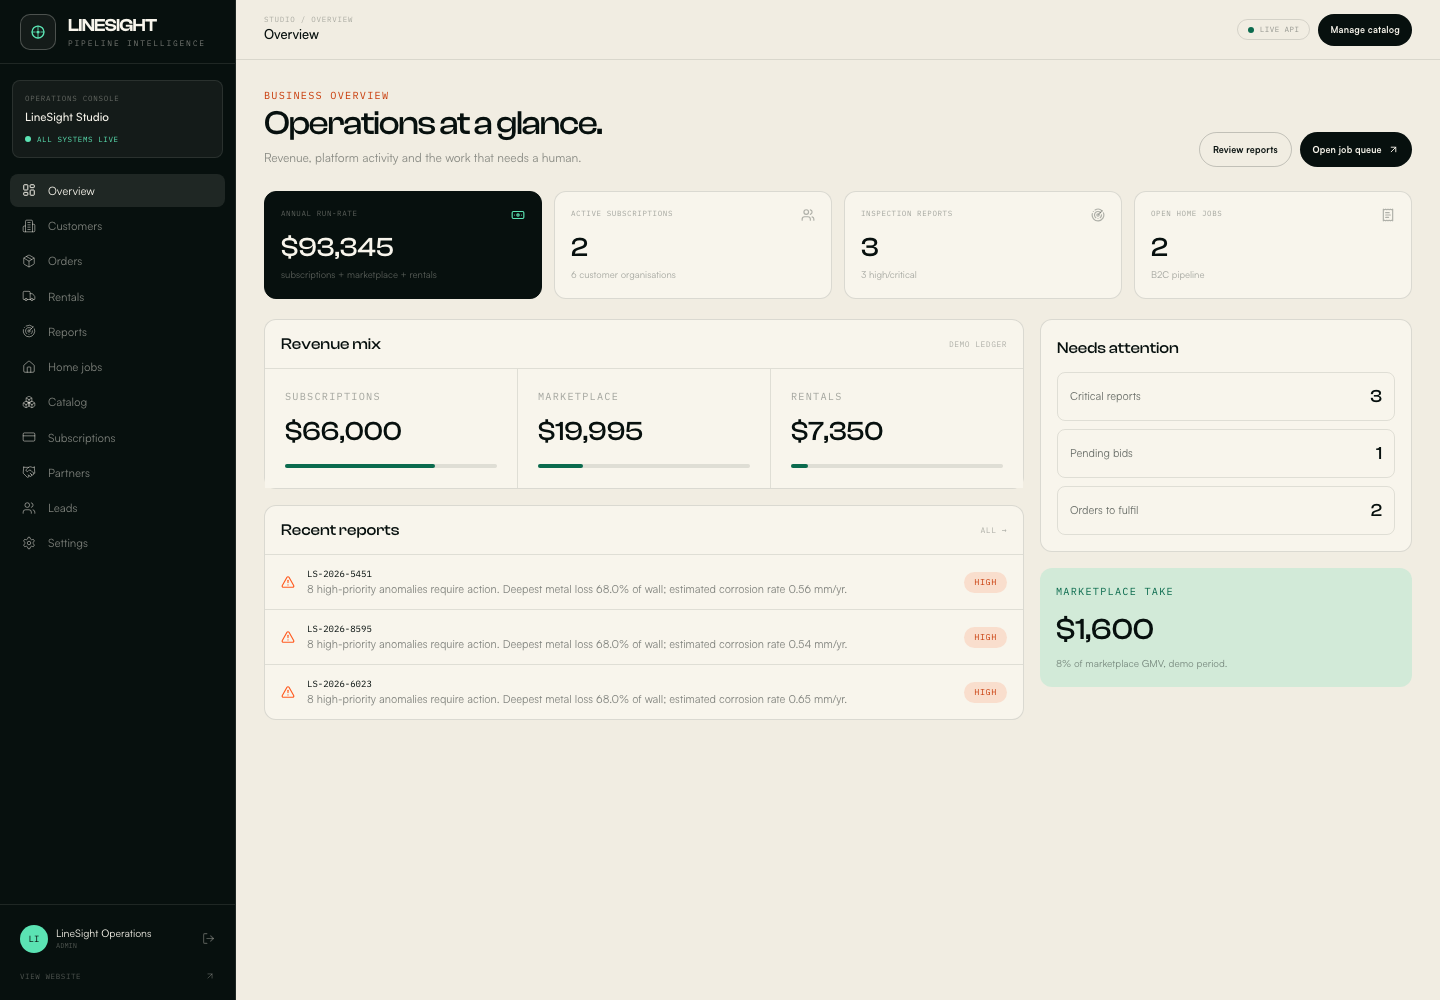
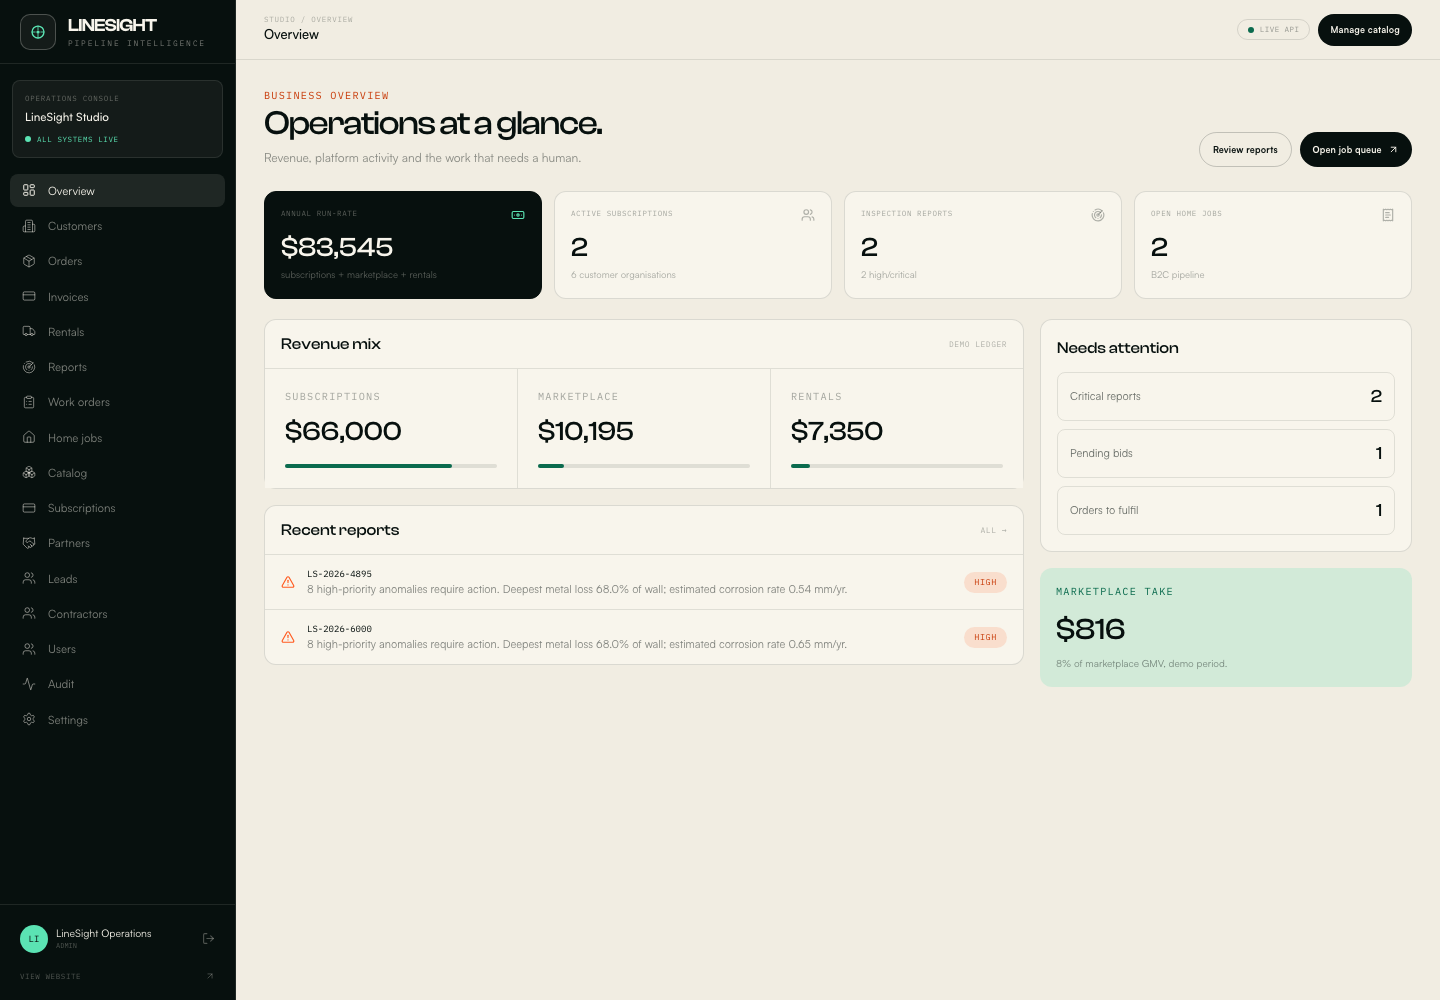
Add feature coverage matrix and final screenshots

diff --git a/feature-matrix.md b/feature-matrix.md
@@ -1,0 +1,112 @@
+# Feature coverage matrix
+
+Legend: **Working** = implemented and tested locally; **Adapter** = implemented
+against a local/provider adapter, needs production credentials; **Roadmap** =
+intentionally not built in this repository.
+
+## Accounts, tenancy and access
+| Feature | Status | Where |
+|---|---|---|
+| Registration (operator, utility, homeowner, contractor, manufacturer) | Working | `/signup`, `POST /auth/register` |
+| Login / logout / JWT session | Working | `/login`, `/auth/login` |
+| Forgot / reset password | Working | `/forgot`, `/reset`, `/auth/forgot`, `/auth/reset` |
+| Organisation scoping | Working | `orgId` on all portal entities |
+| Roles: owner, admin, ops, engineer, contractor, homeowner, manufacturer | Working | JWT claims + admin user editor |
+| User disable / role change | Working | Studio → Users |
+| SSO / SCIM | Roadmap | needs enterprise IdP |
+
+## B2B integrity
+| Feature | Status | Where |
+|---|---|---|
+| Asset register | Working | `/app/assets` |
+| CSV/file upload | Working | `/app/inspections`, multipart API |
+| ILI ingestion (MFL/caliper fields) | Working | API + FastAPI engine |
+| ASME B31G screening | Working | engine + report |
+| CGR / remaining life | Working | engine + report |
+| Ranked anomaly register | Working | `/app/reports/:id` |
+| PDF evidence pack | Working | `/portal/reports/:id/pdf` |
+| 3D anomaly twin | Working | Three.js `ReportTwin` |
+| Multi-run comparison | Working | `/portal/reports/:id/comparison` |
+| GIS route map | Roadmap | lat/lon stored; no tile provider |
+| Vendor-specific parsers | Roadmap | generic CSV contract |
+
+## Commerce
+| Feature | Status | Where |
+|---|---|---|
+| Product catalog / search / detail | Working | `/marketplace` |
+| Sizing configurator | Working | `/configurator` |
+| Cart and order | Working | `/app/marketplace` |
+| Inventory decrement | Working | `createOrder` |
+| Invoice/payment ledger | Working | billing, Studio invoices |
+| Refund | Working | Studio → Invoices |
+| PDF invoice | Working | invoice PDF endpoints |
+| Stripe/Paystack live capture | Adapter | simulator provider; credentials required |
+| Carrier freight/tax service | Roadmap | flat tax; no carrier API |
+| Manufacturer self-service | Working | `/app/partner` |
+| Manufacturer subscription | Working | Studio → Partners |
+
+## Rentals
+| Feature | Status | Where |
+|---|---|---|
+| Catalog / weekly price | Working | `/rentals` |
+| Availability overlap check | Working | `GET /portal/rentals/availability` |
+| Deposit / invoice | Working | rental creation |
+| Pickup | Working | portal |
+| Return / late fee / deposit refund | Working | portal |
+| Logistics carrier integration | Roadmap | no carrier API |
+
+## B2C / LineSight Home
+| Feature | Status | Where |
+|---|---|---|
+| Homeowner job creation | Working | `/app/home` |
+| Footage reference / upload | Working (reference) | job video URL; object storage adapter pending |
+| Visual findings / health score | Working (deterministic) | engine `/v1/video/analyze` |
+| Health certificate | Working | job detail |
+| Contractor bids | Working | job detail |
+| Award / escrow funding | Working | job detail |
+| Milestone release | Working | job detail |
+| Real computer-vision model | Roadmap | needs labelled dataset/model |
+| Regulated escrow | Adapter | local milestone ledger |
+
+## Contractor operations
+| Feature | Status | Where |
+|---|---|---|
+| Profile submission | Working | `/app/contractor` |
+| Admin verification | Working | Studio → Contractors |
+| Work order created on award | Working | API |
+| Completion notes/photos | Working | contractor portal/API |
+| Admin verification + escrow release | Working | Studio → Work orders |
+| Scheduling calendar | Roadmap | scheduledAt field exists |
+| License/insurance automated checks | Roadmap | manual review |
+
+## Operations Studio
+| Feature | Status |
+|---|---|
+| Revenue dashboard | Working |
+| Customers | Working |
+| Orders | Working |
+| Invoices/refunds | Working |
+| Rentals | Working |
+| Reports | Working |
+| Home jobs | Working |
+| Work orders | Working |
+| Catalog edit | Working |
+| Subscriptions | Working |
+| Partners/approval | Working |
+| Contractors/verification | Working |
+| Users/roles | Working |
+| Leads | Working |
+| Audit trail | Working |
+| Notifications queue | Working |
+| Runtime settings (tax, support) | Working |
+
+## Platform
+| Feature | Status |
+|---|---|
+| PWA manifest / offline shell | Working |
+| Responsive web / portal | Working |
+| Self-hosted fonts and imagery | Working |
+| SMTP/SMS delivery | Adapter | outbox records; provider credentials needed |
+| S3/R2 object storage | Adapter | local uploads |
+| Webhooks/idempotency | Roadmap |
+| Observability/OpenTelemetry | Roadmap |

diff --git a/README.md b/README.md
@@ -4,6 +4,7 @@
 - [Revenue model](revenue-model.md)
 - [Security and production gaps](security-and-gaps.md)
 - [API reference](api.md)
+- [Feature coverage matrix](feature-matrix.md)
 - [Image credits](image-credits.md)
 - [Original proposal](Pipeline_Diagnostics_Platform_Proposal.pdf)
 
